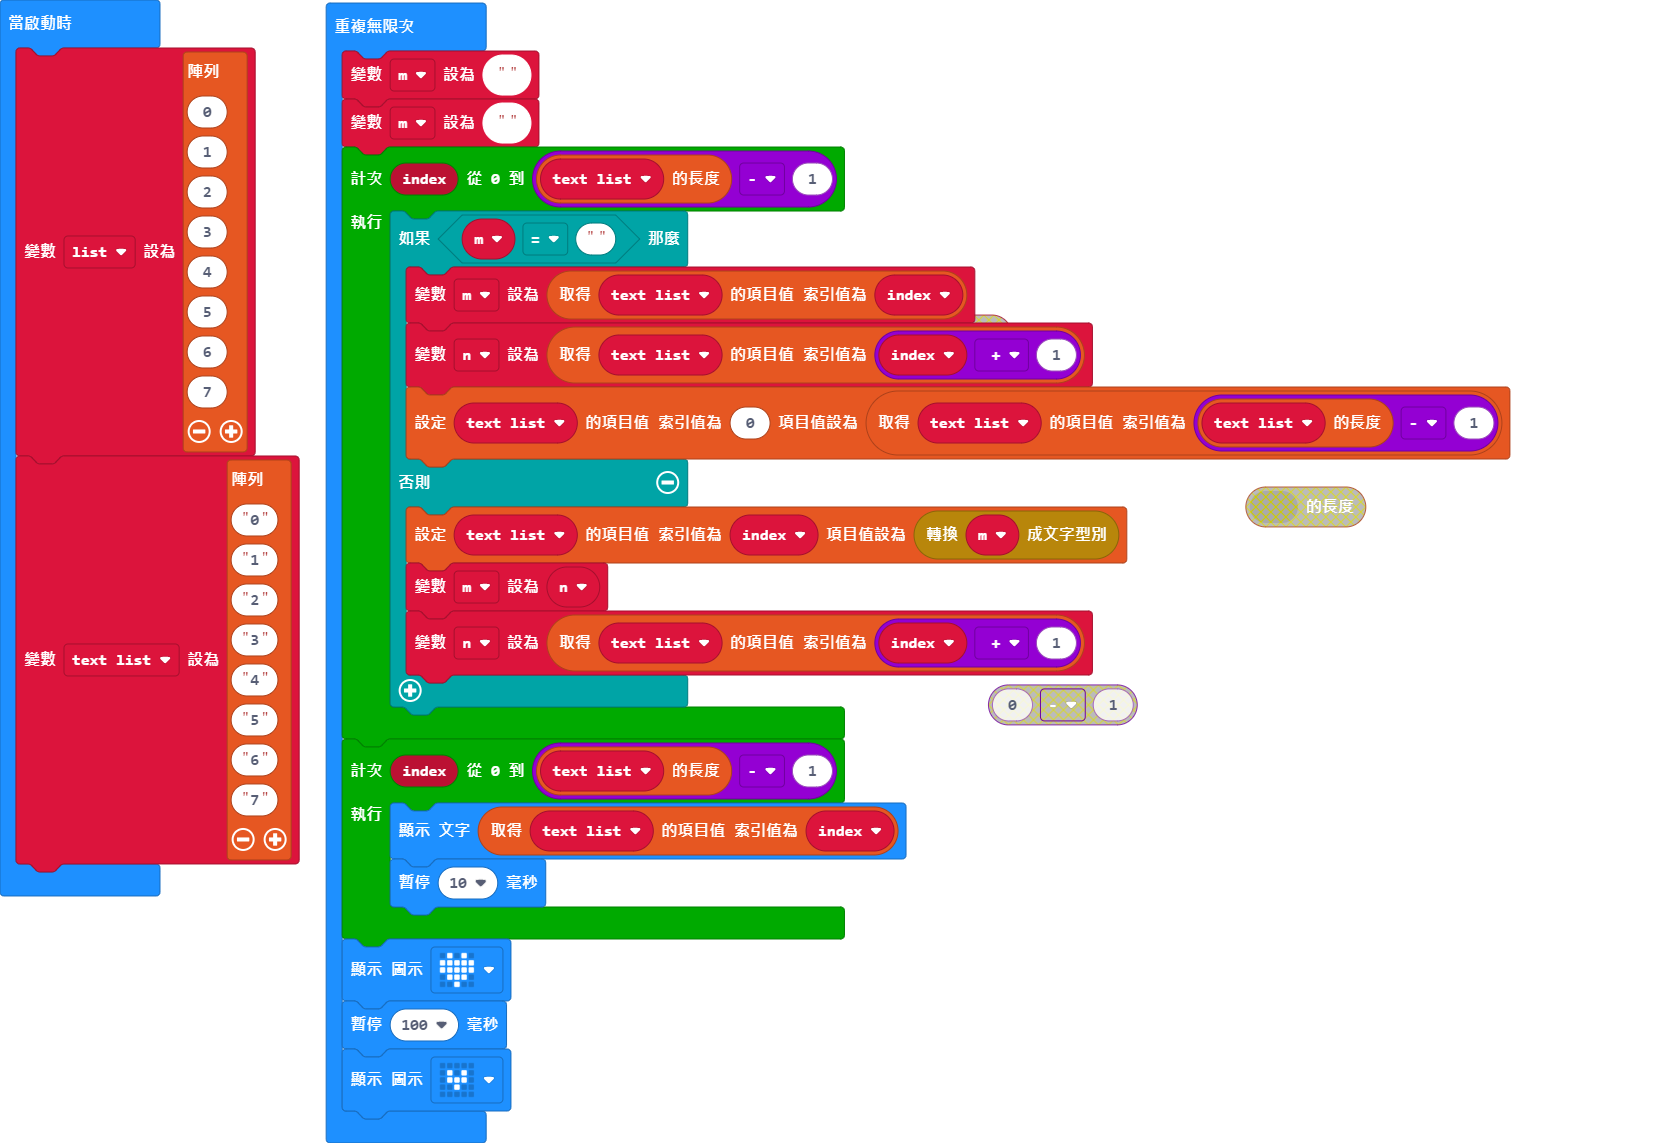
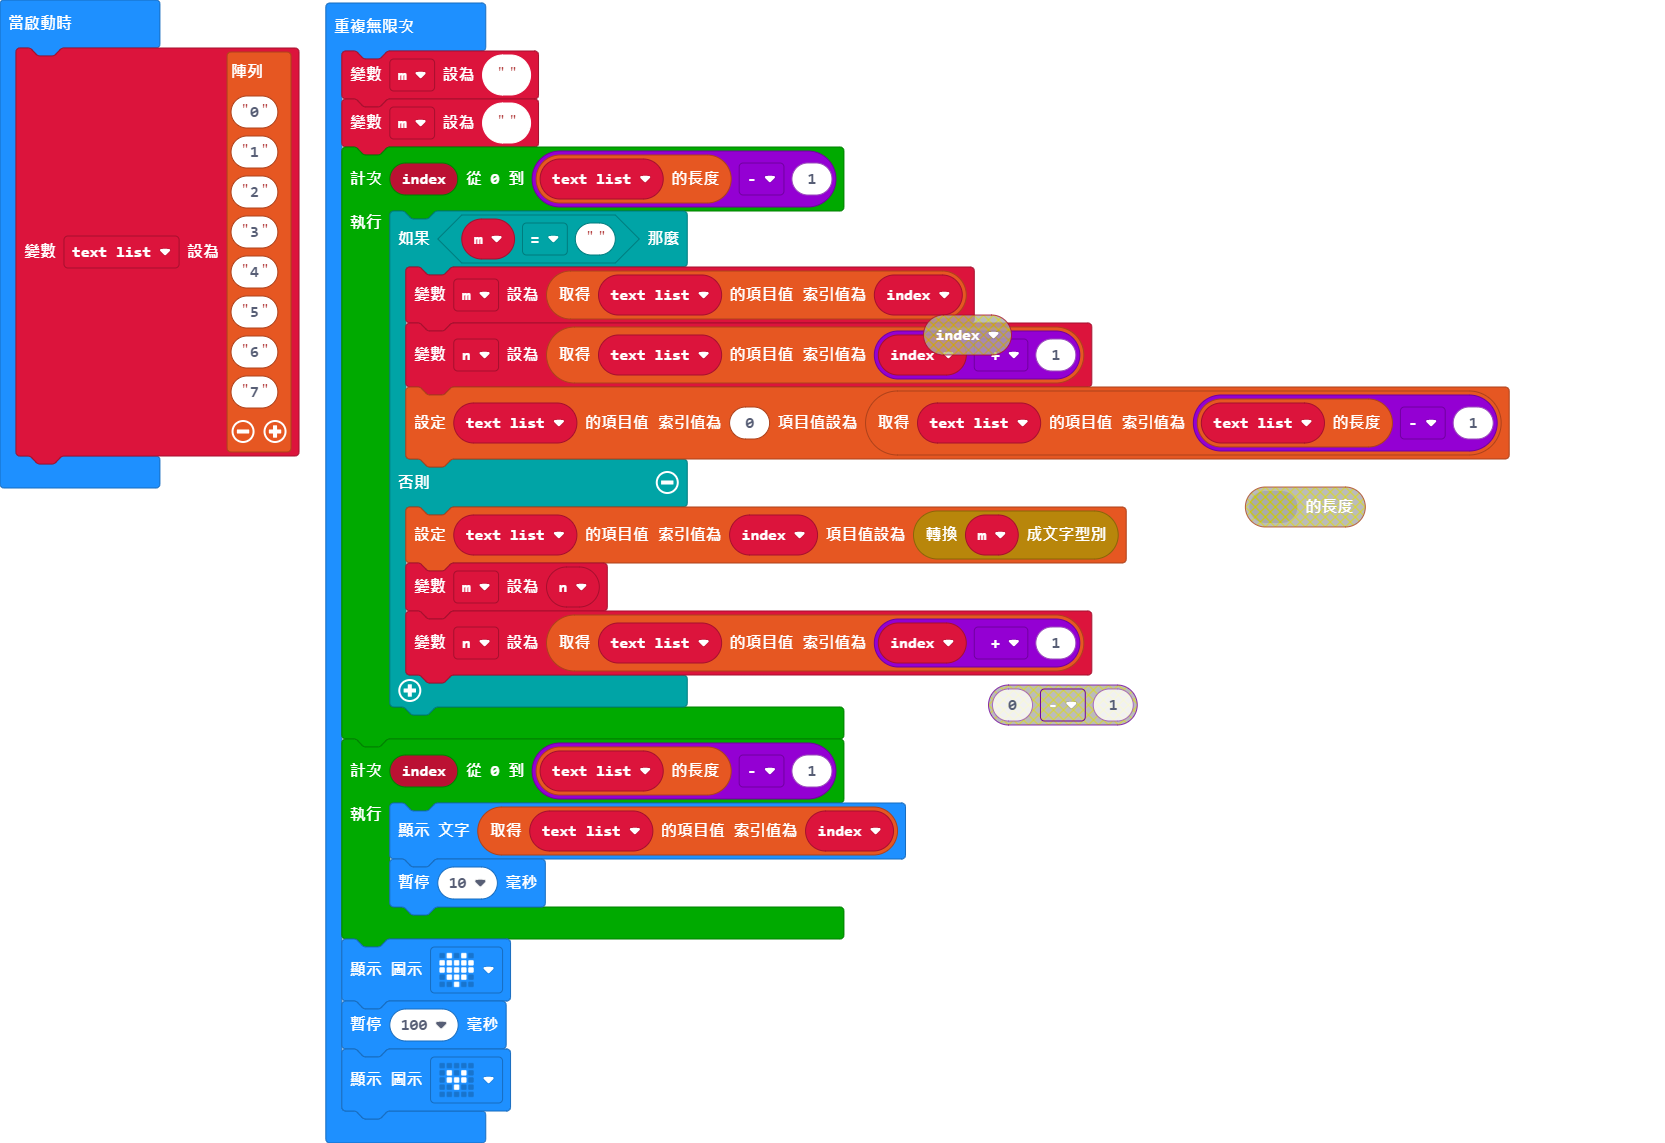
Update pxt.json, main.blocks, main.ts

diff --git a/main.ts b/main.ts
@@ -1,6 +1,5 @@
 let n = ""
 let m = ""
-let list = [0, 1, 2, 3, 4, 5, 6, 7]
 let text_list = ["0", "1", "2", "3", "4", "5", "6", "7"]
 basic.forever(function () {
     m = ""
